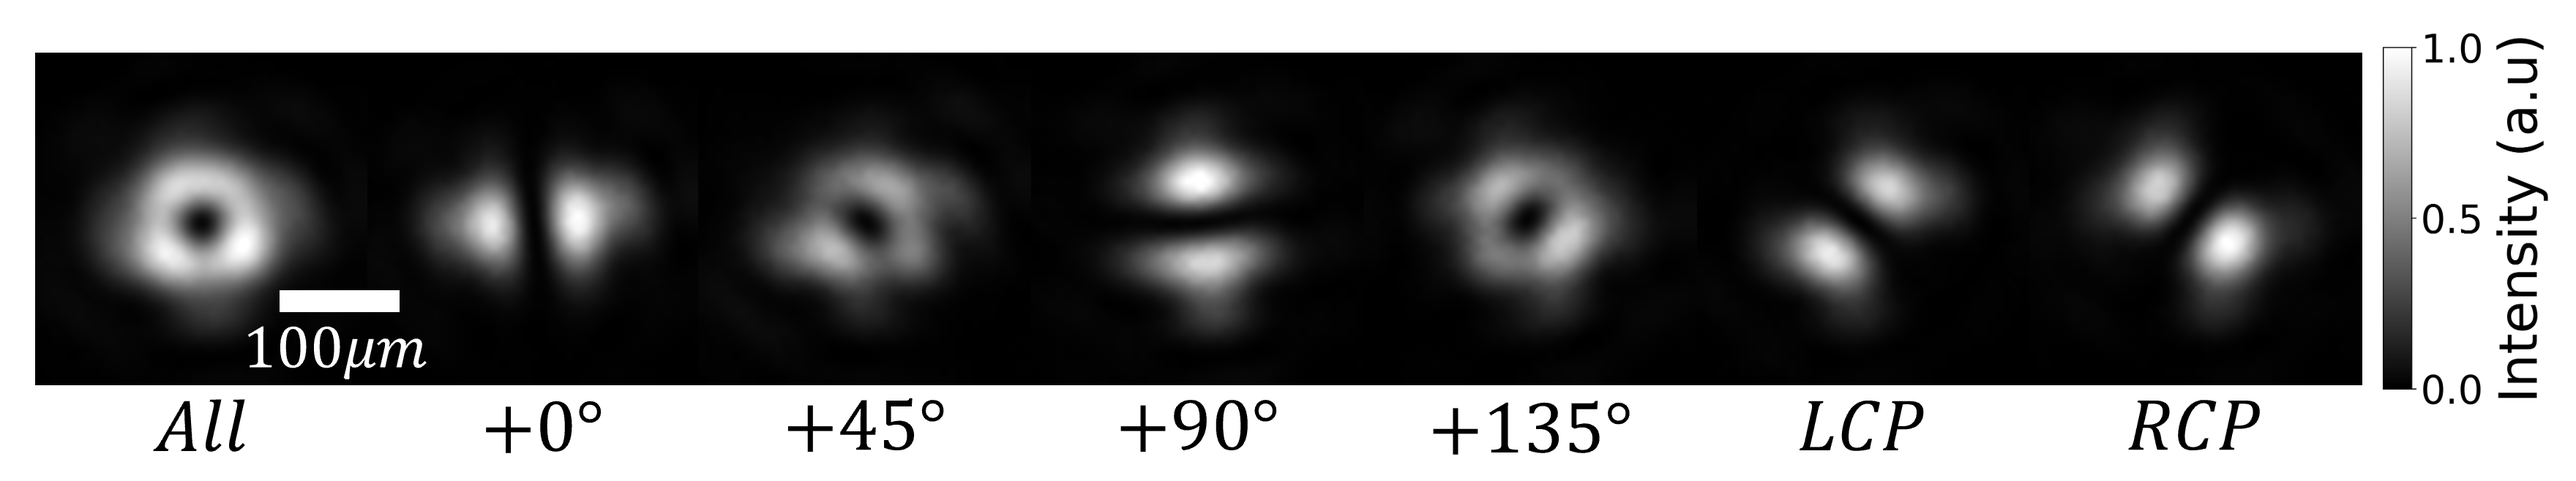
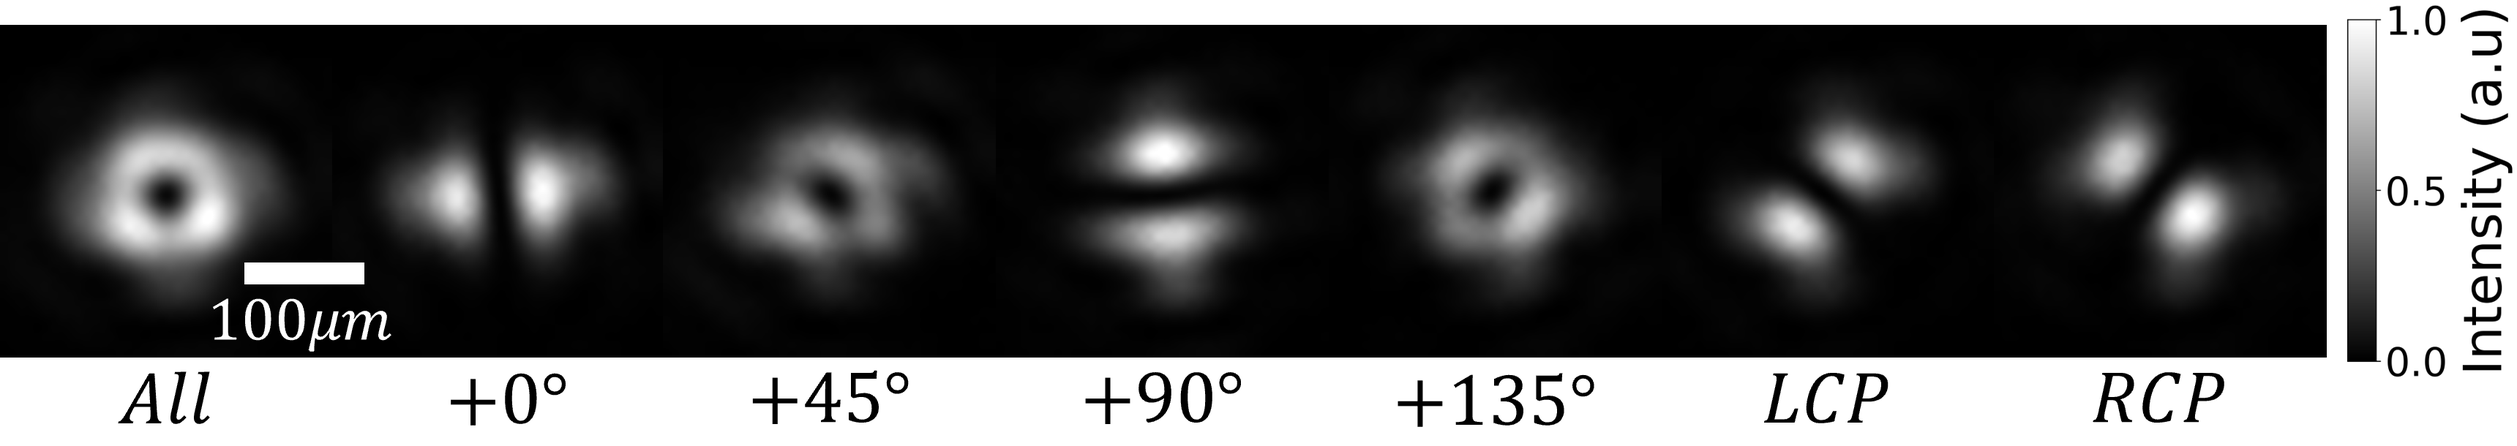
lll

diff --git a/vector_beam/markdown/research.md b/vector_beam/markdown/research.md
@@ -7,14 +7,14 @@
 <div style="text-align: center;">
   <img src="https://raw.githubusercontent.com/esk0ik3/esk0ik3.github.io/main/vector_beam/fig/sim_radial_intensity.png" 
        style="width: 100%; background-color: white !important; padding: 10px; border: none !important; box-shadow: none !important; border-radius: 4px;">
-  <p style="margin-top: 10px; font-size: 0.8em;">ラジアル偏光ビームの各偏光状態の光強度(シミュレーション)</p>
+  <p style="margin-top: 10px; font-size: 0.9em;">ラジアル偏光ビームの各偏光状態の光強度(シミュレーション)</p>
 </div>
 
 しかし，実験では様々な要因によって，以下のようなラジアル偏光ビームになってしまいます．
 
 <div style="text-align: center;">
   <img src="https://raw.githubusercontent.com/esk0ik3/esk0ik3.github.io/main/vector_beam/fig/exp_radial_intensity_1.png" 
-       style="width: 100%; background-color: transparent !important; border: none !important; box-shadow: none !important;">
+       style="width: 100%; background-color: white !important; padding: 10px; border: none !important; box-shadow: none !important; border-radius: 4px;">
   <p style="margin-top: 10px; font-size: 0.9em;">ラジアル偏光ビームの各偏光状態の光強度(実験結果:補正前)</p>
 </div>
 
@@ -22,12 +22,6 @@
 
 <div style="text-align: center;">
   <img src="https://raw.githubusercontent.com/esk0ik3/esk0ik3.github.io/main/vector_beam/fig/exp_radial_intensity_2.png" 
-       style="width: 100%; background-color: transparent !important; border: none !important; box-shadow: none !important;">
+       style="width: 100%; background-color: white !important; padding: 10px; border: none !important; box-shadow: none !important; border-radius: 4px;">
   <p style="margin-top: 10px; font-size: 0.9em;">ラジアル偏光ビームの各偏光状態の光強度(実験結果:補正後)</p>
-</div>
-
-<div style="text-align: center;">
-  <img src="https://raw.githubusercontent.com/esk0ik3/esk0ik3.github.io/main/vector_beam/fig/sim_radial_intensity.png" 
-       style="width: 100%; background-color: red !important; padding: 10px; border: none !important; box-shadow: none !important; border-radius: 4px;">
-  <p style="margin-top: 10px; font-size: 0.8em;">ラジアル偏光ビームの各偏光状態の光強度(シミュレーション)</p>
 </div>
